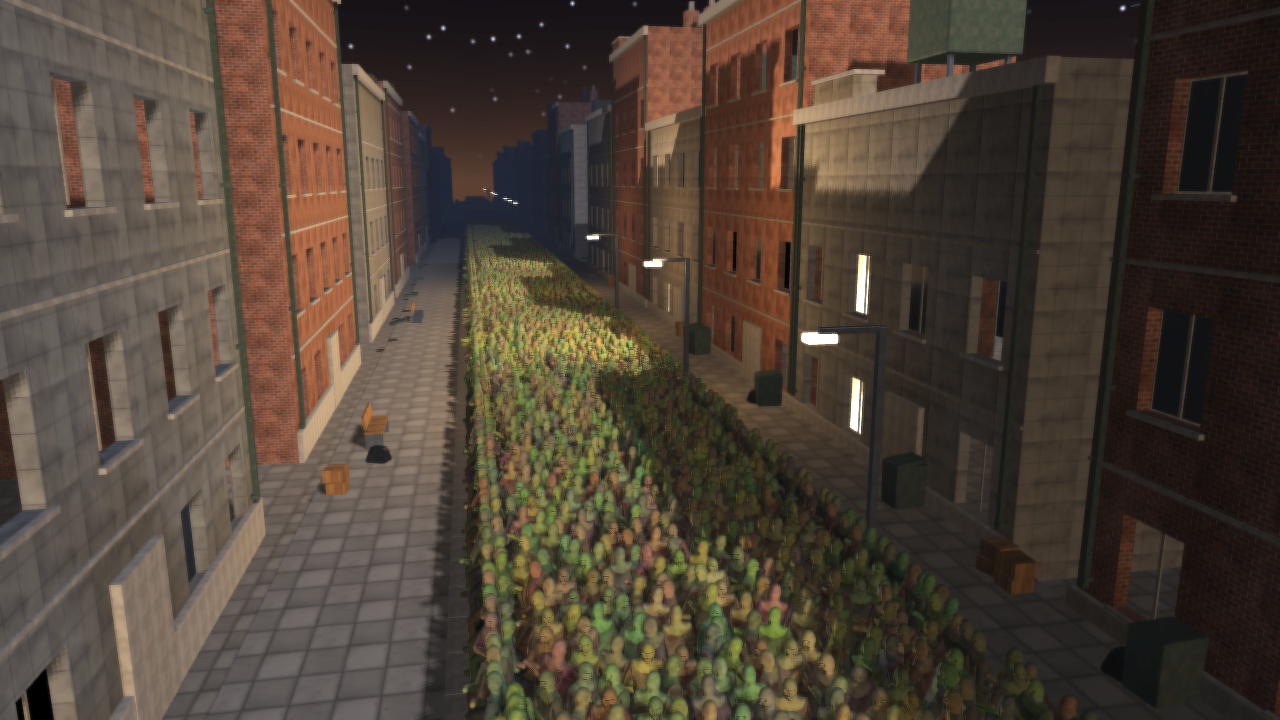
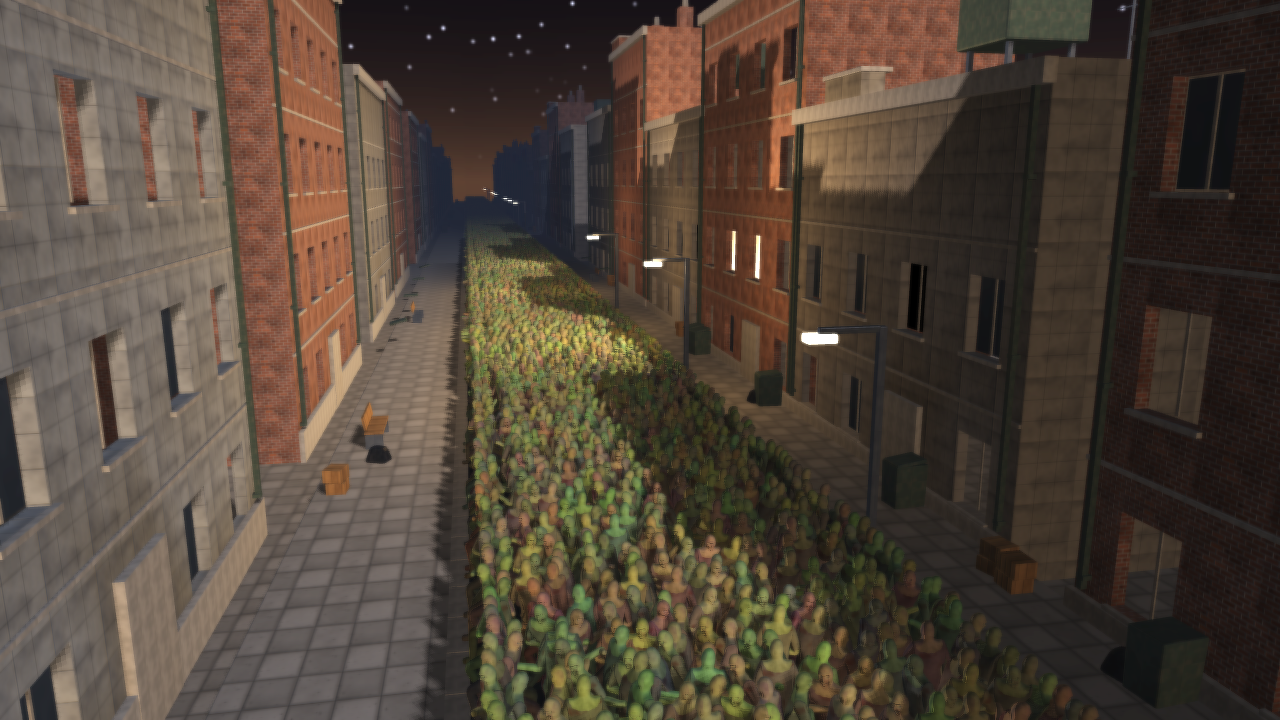
README: the scenes as they are, in pictures
A gallery of the six scenes beside the city, every frame from the
current build: the seabed, the desert pile, the island, the voxel
terraces, the materials on their floor, the black hole. The hero is
the horde coming up the dark end of the street at the camera, faces
and all; the twenty-thousand shot is retaken with both gaits and the
full terraces.

diff --git a/README.md b/README.md
@@ -7,11 +7,11 @@ drawn, and check the frame by number instead of by eye.
 
 ![A horde of skinned zombies shambling down a lamp-lit street at night, the wet road reflecting the lamps](docs/zombie-city.png)
 
-*`examples/zombie_city.ae`: a street of seven blocks and a crowd of the same
-skinned zombie, every one posed from a shared pose bank and drawn in two
-instanced calls. Everything in the frame was modelled, textured and animated
-by a script in Blender and exported through the pipeline below; the sky was
-painted by the engine.*
+*`examples/zombie_city.ae`: a street of seven blocks and a horde of two
+skinned figures, each walking its own gait, every one posed from a baked pose
+bank and drawn in two instanced calls per figure. Everything in the frame was
+modelled, textured and animated by a script in Blender and exported through
+the pipeline below; the sky was painted by the engine.*
 
 ae3d is written in [Aether](https://github.com/aether-lang-dev/aether) with a
 thin C layer for the GPU, windowing and image decoding. It continues
@@ -60,6 +60,20 @@ can be interrogated while it runs. See [Credits](#credits).
 full mesh, the far tier the build's own 168-triangle stand-in, and the draw
 count does not change with the crowd. Twenty thousand hold ~38 fps on an
 RTX 4070 Ti at 1280x720 with the GPU shared.*
+
+## The scenes
+
+| | |
+|---|---|
+| ![The seabed under the swell: caustics on sand and rocks, murk with distance](docs/caustics.png) | ![A pile of four hundred thousand grains of sand in a desert, dunes at the horizon](docs/sand.png) |
+| *`caustics`: the seabed under the swell, a diver's height off the sand* | *`sand`: 400,000 grains settling into a pile in a desert the engine painted* |
+| ![An island in a sea under an afternoon sky, meshed with surface nets](docs/smooth-terrain.png) | ![A voxel terrain of terraces under the sun, its shadows on the steps](docs/voxel-world.png) |
+| *`smooth_terrain`: a signed distance field meshed with surface nets, an island in a sea* | *`voxel_world`: 960,464 voxels, the 93,030 exposed ones drawn in one call* |
+| ![Five spheres on a floor under a night sky, one shadow each](docs/materials.png) | ![A Kerr black hole: its asymmetric shadow, a lensed disc and a lensed sky](docs/black-hole.png) |
+| *`lights`: the material presets, on a floor, under the painted night* | *`black_hole`: Kerr geodesics per pixel, the shadow checked against sqrt(27) M* |
+
+Every scene is verified the same way the engine is: from a sweep of camera
+positions and by numbers read back over the channel, not from one still.
 
 ## Quick start
 
